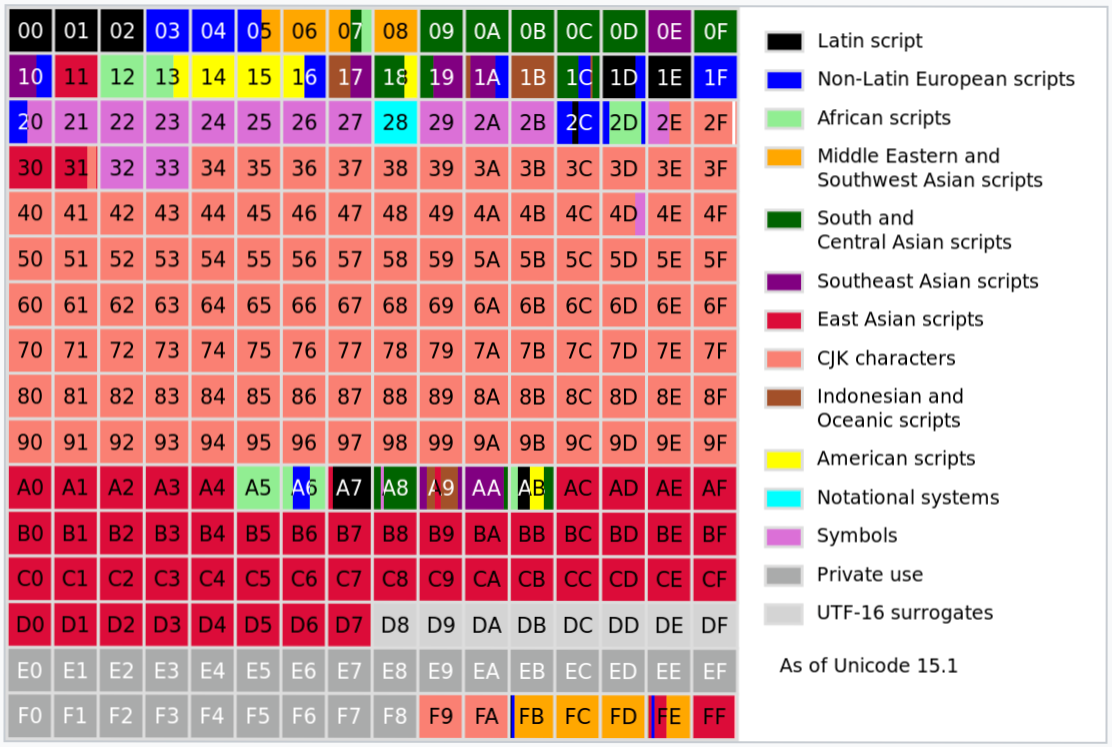
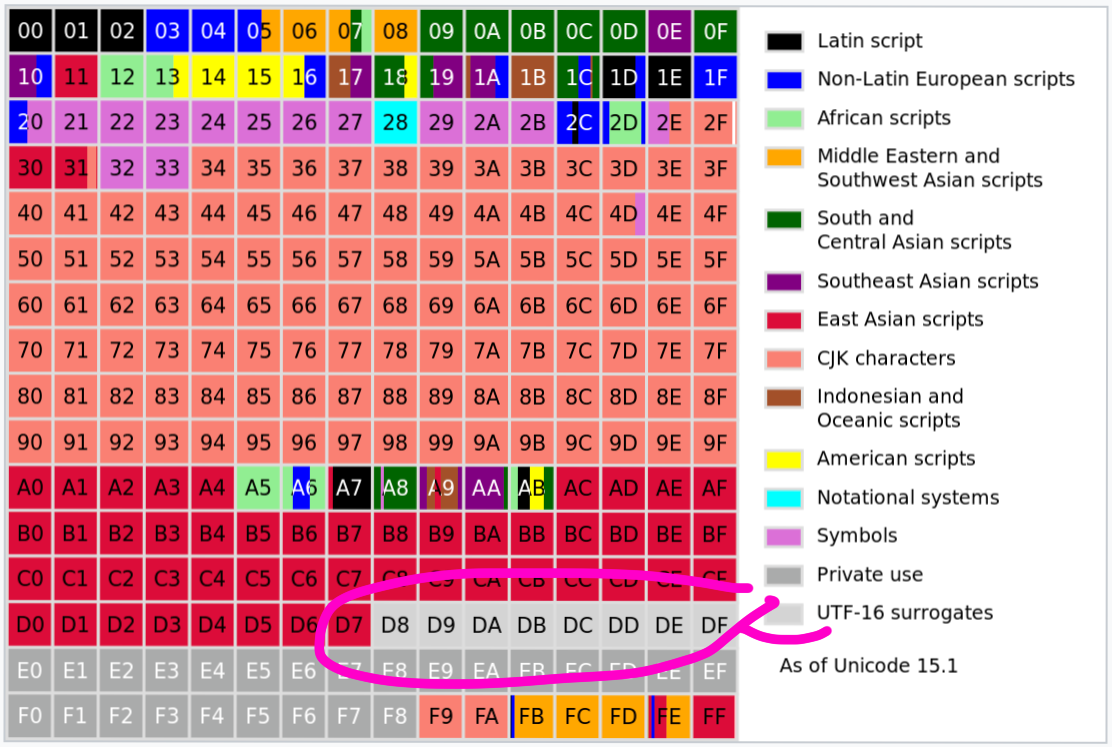
Unicode - updates, utf-16, surrogates

Changed region(s): [[0.3058, 0.739, 0.7644, 0.8621], [0.3058, 0.8621, 0.6421, 0.9237], [0.2752, 0.8005, 0.3058, 0.8929]]

diff --git a/site/blog/unicode/index.md b/site/blog/unicode/index.md
@@ -172,6 +172,10 @@ Anyways. The problem is, just like with UTF-8, you can’t just take part of tha
 
 Otherwise, you get bugs like this:
 
+error1.png
+
+or this:
+
 intellij@2x.mp4
 Just to be clear: this is NOT a correct behavior
 
@@ -256,25 +260,19 @@ Touché.
 
 # How do I detect extended grapheme clusters then?
 
-Unfortunately, most languages choose the easy way and let you iterate strings with 1-2-4 byte chunks, or sometimes codepoints, but not with grapheme clusters. And since it’s a default, people don’t think much and we get bugs like this:
+Unfortunately, most languages choose the easy way out and let you iterate strings with 1-2-4 byte chunks, but not with grapheme clusters.
 
-error1.png
+It makes no sense and has no semantic, but since it’s the default, programmers don’t think twice and we see corrupted strings as the result:
 
-or this:
+stdlib@2x.png
 
-error2.png
-
-or this:
-
-error3@2x.png
-
-What you should be doing is using a third-party library. For example:
-
-1. Swift: nothing. Swift does the right thing by default.
+What you should be doing instead is using a proper Unicode library. For example:
 
 1. C/C++/Java: use [ICU](https://github.com/unicode-org/icu). It’s a library from Unicode itself that encodes all the rules about text segmentation.
 
 1. C#: use `TextElementEnumerator`, which is kept up to date with Unicode as far as I can tell.
+
+1. Swift: just stdlib. Swift does the right thing by default.
 
 1. For other languages, there’s probably a library or binding for ICU.
 
@@ -286,30 +284,60 @@ IMO, the whole situation is a shame. Unicode should be in stdlib of every langua
 
 # Wait, rules are changing?
 
+Yes! Ain’t it cool?
 
+(I know, it ain’t)
 
-# What about regexps?
+Roughly starting from 2014, Unicode is releasing a major revision of their standard every year. This is where you get your new Emoji from — Android and iOS updates in the Fall usually include newest Unicode standard among other things. It also means that old systems can’t show new Emoji.
 
-# Normalization
+versions@2x.png
+
+What’s sad for us, rules that define grapheme clusters change every year, too. What is considered a sequence of two or three separate codepoints today might become a grapheme cluster tomorrow! There’s no way to know! Or prepare!
+
+Even worse, different versions of your own app might be running on different Unicode standards and report different string lengths!
+
+But that’s the reality we live in. You don’t really have a choice here. You can’t ignore Unicode or Unicode updates if you want to stay relevant and you want decent user experience. So, buckle up, embrace, and update.
 
 # Is UTF-16 still alive?
 
+Yes!
+
+A little bit of history. First version of Unicode was supposed to be fixed-width. 16-bit fixed width, to be exact:
+
+unicode1@2x.png
+Version 1.0 of the Unicode Standard, October 1991
+
+They believed 65536 characterd would be enough for all human languages. They were almost right!
+
+And that promise was so compelling many systems embedded it very deeply into their core. Among them were Microsoft Windows, Java, JavaScript, .NET, Python 2, QT, SMS and CD-ROM!
+
+Since then, Python has moved on, but the rest is stuck with UTF-16 or with UCS-2 even. So UTF-16 lives there as memory representation.
+
+It also warms my heart when I remember that every time I store, send or receive a string, there’s a conversion overhead from UTF-8 to UTF-16 to get it in memory. Well, nobody is perfect.
+
+# What are surrogate pairs?
+
+That goes back to Unicode v1 again. When they realized they need more codepoints, UCS-2 was already used in all these systems. 16 bit, fixed-width, it only gives you 65536 characters. What can you do?
+
+Unicode decided to allocate some of these 65536 chars to encode higher codepoints, essentially converting fixed-width UCS-2 into variable-width UTF-16.
+
+Surrogate pair is two UTF-16 units used to encode single Unicode codepoint. For example, `D83D DCA9` (two 16-bit units) encode _one_ codepoint, `U+1F4A9`.
+
+Top 6 bits in surrogate pairs are used for mask, leaving 2×10 free bits to spare:
+
 ```
-var bytes = "Analytics".getBytes("UTF-16");
-var partial = Arrays.copyOfRange(bytes, 0, 11);
-new String(partial, "UTF-16"); // => "Anal�"
-
-var bytes = "Analytics".getBytes("UTF-16");
-var partial = Arrays.copyOfRange(bytes, 1, 20);
-new String(partial, "UTF-16"); // => "＀䄀渀愀氀礀琀椀挀�"
+   High Surrogate          Low Surrogate
+        D800        ++          DC00
+1101 10?? ???? ???? ++ 1101 11?? ???? ????
 ```
 
-# What is surrogate pair?
+Technically, both halves of surrogate pair can be seen as Unicode codepoints, too. In practice, the whole range from `U+D800` to `U+DFFF` is allocated as “for surrogate pairs only”. Codepoints from there are not even considered valid in any other encodings.
 
-# no reason not to use utf-8
-# You only need two representations: grapheme clusters and bytes
-# utf-16 is still in use
-# only measures are byte length and extended grapheme clusters length
+bmp@2x.png
+This space on very crammed Basic Multilingual Plane will never be used for anything good ever again
+
+# What about regexps?
+# Normalization
 # Unicode is locale-dependent
 
 Mixing C/J/K in a single document is impossible without metadata and special language specific fonts.
@@ -318,108 +346,10 @@ For example airlines can’t rely on Unicode to properly render passenger names
 
 Oh, and yes that means that a single Unicode font that covers all language can never exist either.
 
-# Unicode is updated once/twice a year
-# Many ways to do it
-# Regexps
 # Conclusion
 
 It’s not even hard there days, or complicated. It’s a matter of not doing random thing and doing the right thing.
 
-# A quick note on UTF-16
-
-I know, I know... I told you it’s not used anymore. Well, it is.
-
-At the start of Unicode, all codepoints were planned to fit into 16 bit. That’s why Java, JavaScript and Windows were so keen to jump on that train. Fixed-width, 16-bit encoding is as convenient as ASCII. Unfortunately, 16 were not enough in the long run.
-
-(We still pay price for this oversight, by the way. Each time Java or JavaScript receives a string from a disk or the network, it needs to be converted from UTF-8 to UTF-16. It’s not much, and you probably can’t do anything about it, so, you know, just another imperfection to feel sorry about.)
-
-So, Unicode grew over 16 bits, and UTF-16 (called UCS-2 back then) had to be retrofitted.
-
-They did that by blocking out two 16-bit ranges (U+D800..U+DBFF and U+DC00..U+DFFF) and assigning them no glyphs. These Unicode codepoints have no meaning on their own except for “we are used in UTF-16 to represent larger codepoints”. They are called “surrogate pairs”.
-
-That’s a story of an encoding (technical detail) affecting Unicode table (a platonic ideal). Sorry, purists.
-
-# So, how big is Unicode now?
-
-Largest defined codepoint is 0x10FFFF. That’s about 11 million characters. This takes 21 bit to represent, but, surprisingly, does not cover all the space.
-
-Technically, UTF-8 can go as high as 0x1FFFFF, but UTF-16 can’t, so, compromises. It’s plenty of space anyway, and most of it is unused.
-
-This is the overview of the entire codepoint space:
-
-overview@2x.png
-
-On the picture, each large square is a Unicode _plane_. Plane fits 65,536 codepoints.
-
-There are 17 planes total. Most are unallocated, i.e. reserved for future use. Plenty of space for new emojis.
-
-Second plane contains mostly dead languages and some emoji.
-
-Third and fourth are dedicated entirely for CJK (Chinese, Japanes, Korean).
-
-Last two can be used freely by app developers. For example, icon fonts put assign their icons there.
-
-The very first plane is called BMP, or Basic Multilingual Plane. It fits most of the languages in active use today, sans CJK. That’s what original UCS-2/UTF-16 was supposed to be. I guess one can feel the temptation of fitting _everything_ into these 65,536 characters and be done with it. Unfortunately, humanity invented more letters than it was convenient for the computer.
-
-bmp@2x.png
-A map of the Basic Multilingual Plane. Each numbered box represents 256 code points.
-
-Each square is 256 characters. For example, the entirety of Latin alphabet fits into two small red squares in top left corner. ASCII is half of first square. Emoji take, what, about 5 squares at the bottom of second plane? Tiny compared to the entire thing. Unicode is HUGE.
-
-# Unicode is variable-length
-
-Unicode? Weren’t you supposed to say UTF-8?
-
-Well, no.
-
-So ASCII was fixed-length. It was so convenient that every other encoding since then was trying to bring back that property. All of them failed.
-
-USC-2 was supposed to be fixed-length. Didn’t have enough codepoints.
-
-UTF-32 had enough codepoints, but with 4× overhead. Yet we need grapheme clusters.
-
-You see, Unicode codepoints sometimes come in pairs. Sometimes in groups, even. Something like `ö` is actually `o` (U+006F Latin Small Letter O) + `¨` (U+0308 Combining Diaeresis) in disguise. Two codepoints. Single _grapheme_. Under any circumstance, shouldn’t be broken.
-
-Same goes for emoji, for example:
-
-- `☹` is `U+2639` + `U+FE0F`
-- `🇺🇳` is `U+1F1FA` + `U+1F1F3`
-- `🚵🏻♀` is `U+1F6B5` + `U+1F3FB` + `U+200D` + `U+2640` + `U+FE0F`
-
-These can get quite long.
-
-What’s string lenght of `🤦🏼♂`? If you ask human, a real human, someone not familiar with how computers work internally, naturally their answer would be `1`. Yet it’s 5 codepoints! 17 bytes, if encoded in UTF-8!
-
-
-
-# Проблемы
-
-- UTF-16
-  - Byte order, BOM
-  - Конвертация из-в UTF-8
-- разбивать текст по байтам нельзя
-  - �
-  - да и по кодпоинтам нельзя
-  - Extended Grapheme Cluster
-  - «То, что воспринимается человеком как один символ»
-- Искать по подстроке нельзя
-  - Uppercase/lowercase
-  - Номализация
-  - NFD — все взорвать, é → e + ◌́
-  - NFC — все слепить, e + ◌́ → é
-  - macOS/Windows й
-  - X и 𝕏 (U+1D54F, MATHEMATICAL DOUBLE-STRUCK CAPITAL X)
-  - 1 и ¹ и ₁
-- Локааали
-  - uppercase/lowercase
-    - I → ı, i → İ
-  - Han unification
-    - For Japanese, the kanji characters have been unified with Chinese; that is, a character considered to be the same in both Japanese and Chinese is given a single number, even if the appearance is actually somewhat different, with the precise appearance left to the use of a locale-appropriate font
-  - Болгарица
-    - https://twitter.com/nikitonsky/status/1171115067112398849
-  - Text Segmentation
-    - Границы букв, слогов (для переносов), слов, предложений
-    - Работает через словарь
-    - Поэтому ICU весит 10 Мб, а не 10 Кб :(
-  - Новые версии каждый год
-    - Результаты разбиения/переноса могут поменяться
+- Unicode is a miracle
+- no reason not to use utf-8
+- You only need two representations: grapheme clusters and bytes
